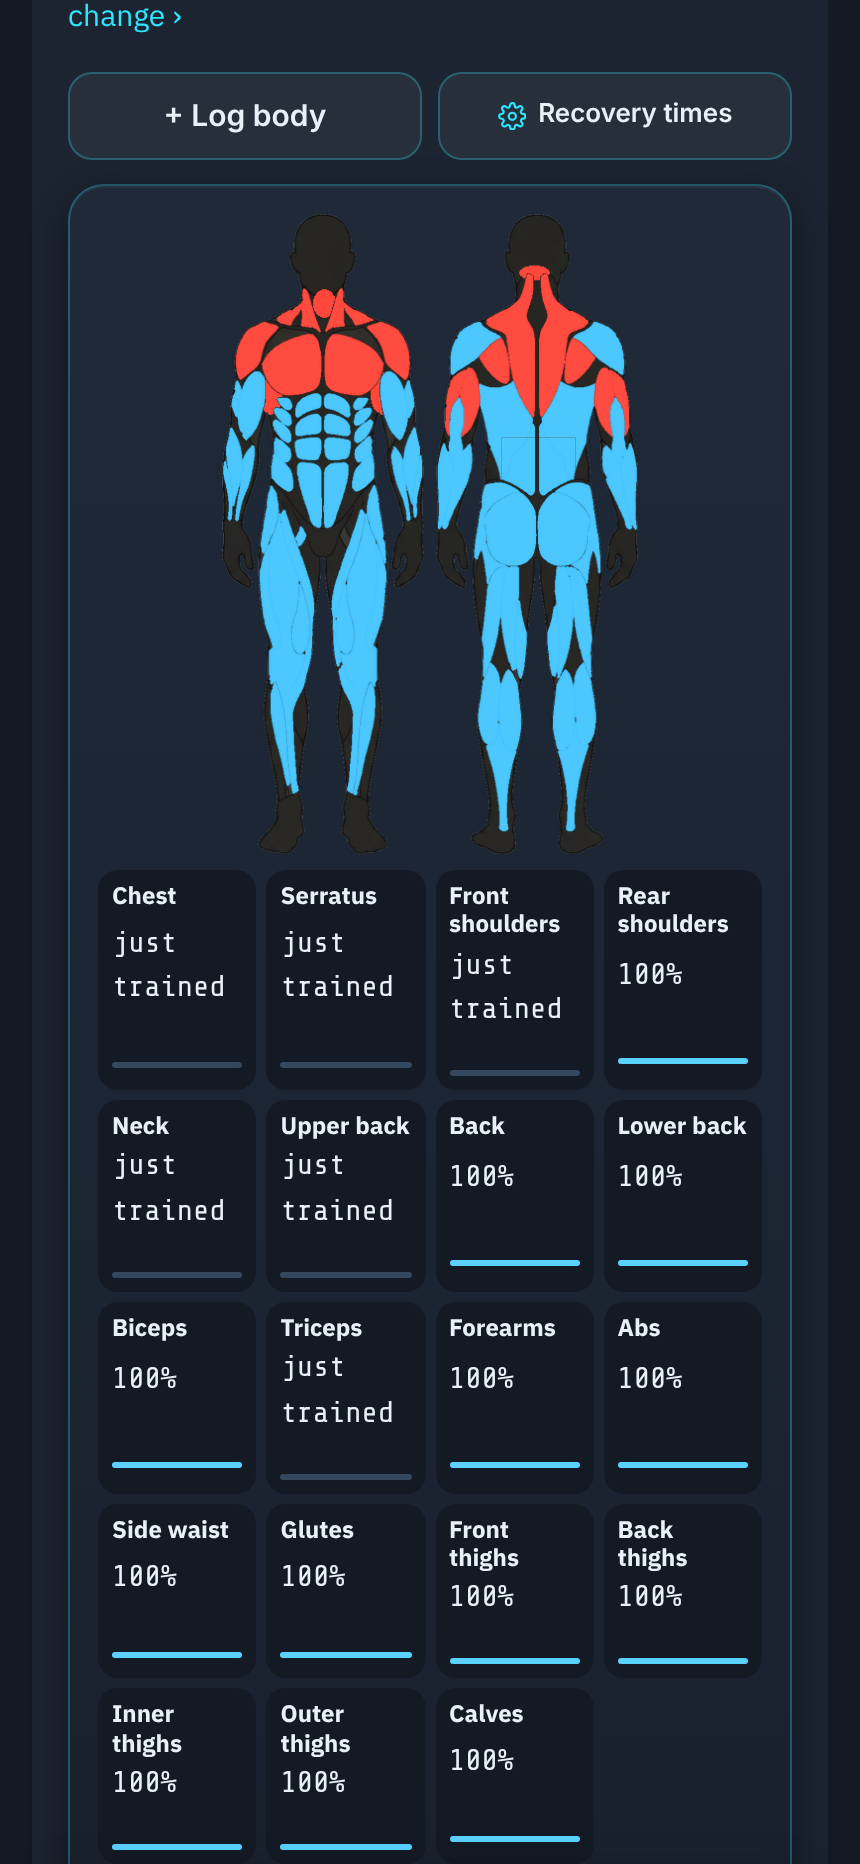
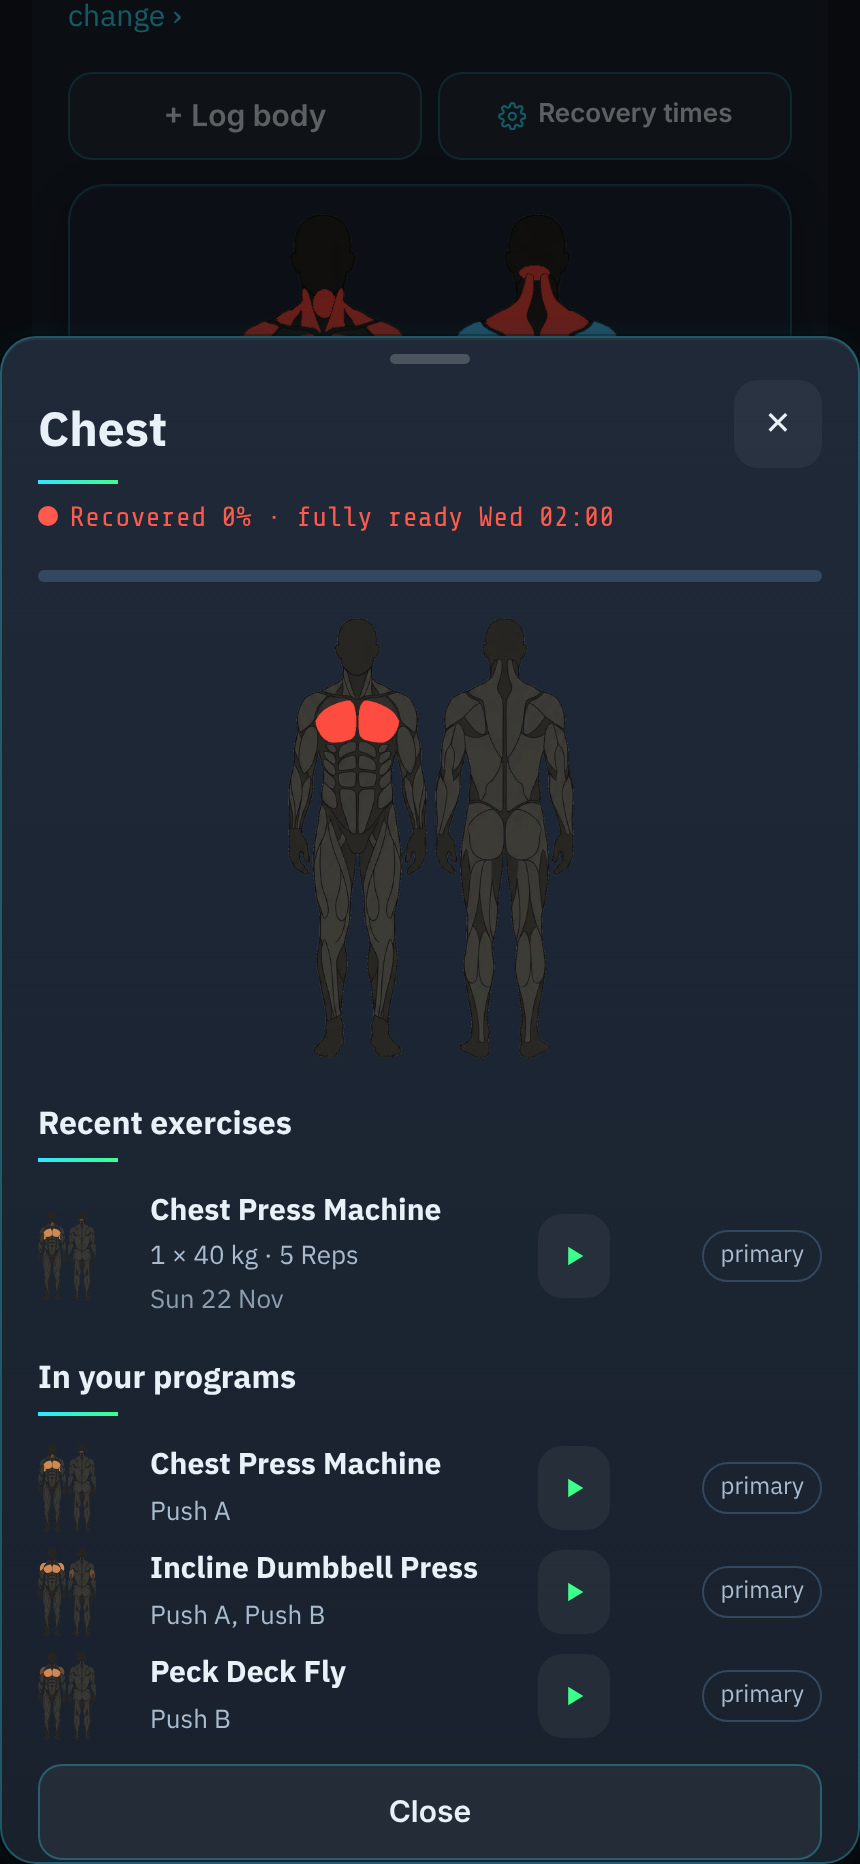
Recovery: muscle tile tap opens details on Today (#197)
* docs: Today critique snapshot + redesign intent

Claude-Session: https://claude.ai/code/session_01TA1QFnqgBxBRFsiXemJ9Lg

* chore: ignore impeccable live-server state

Claude-Session: https://claude.ai/code/session_01TA1QFnqgBxBRFsiXemJ9Lg

* Today: plan first, one start button, inline meal tick, folded recovery

Claude-Session: https://claude.ai/code/session_01TA1QFnqgBxBRFsiXemJ9Lg

* docs: merge PR automatically once npm test passes

Claude-Session: https://claude.ai/code/session_01TA1QFnqgBxBRFsiXemJ9Lg

* docs: no OK wait between steps

Claude-Session: https://claude.ai/code/session_01TA1QFnqgBxBRFsiXemJ9Lg

* Today: recovery-aware start, undo on meal tick, progress bars, direct start

Claude-Session: https://claude.ai/code/session_01TA1QFnqgBxBRFsiXemJ9Lg

* Today: rested program leads, rest-day exit, inline meal cancel, over-target bar

Claude-Session: https://claude.ai/code/session_01TA1QFnqgBxBRFsiXemJ9Lg

* Today: body weight + 7-day change + weigh-in in the body card

Claude-Session: https://claude.ai/code/session_01TA1QFnqgBxBRFsiXemJ9Lg

* Today: body card shows weight, muscle mass and body fat

Claude-Session: https://claude.ai/code/session_01TA1QFnqgBxBRFsiXemJ9Lg

* Today: weigh-in opens the full body-log sheet

Claude-Session: https://claude.ai/code/session_01TA1QFnqgBxBRFsiXemJ9Lg

* Today: headline matches suggestion, inline cancel, blank weigh-in, fits above tab bar

Claude-Session: https://claude.ai/code/session_01TA1QFnqgBxBRFsiXemJ9Lg
[…]

diff --git a/public/index.html b/public/index.html
@@ -8,11 +8,11 @@
 <meta name="apple-mobile-web-app-status-bar-style" content="black-translucent">
 <meta name="apple-mobile-web-app-title" content="WeightGram">
 <link rel="manifest" href="/manifest.webmanifest">
-<link rel="apple-touch-icon" href="/apple-touch-icon.png?v=138621">
+<link rel="apple-touch-icon" href="/apple-touch-icon.png?v=138622">
 <title>WeightGram</title>
 <link rel="stylesheet" href="https://fonts.googleapis.com/css2?family=IBM+Plex+Sans+Thai:wght@400;500;700&family=IBM+Plex+Mono:wght@400;500&family=Share+Tech+Mono&display=swap">
 <style>:root{padding-top:env(safe-area-inset-top,0px);padding-bottom:env(safe-area-inset-bottom,0px)}*{-webkit-tap-highlight-color:transparent}body{margin:0;font-size:var(--t-sm);font-family:system-ui,sans-serif}img{max-width:100%}[hidden]{display:none!important}</style>
-<link rel="stylesheet" href="/css/app.css?v=138621">
+<link rel="stylesheet" href="/css/app.css?v=138622">
 </head><body>
 
 <div class="wrap">
@@ -280,37 +280,37 @@
   </div>
 </div>
 
-<script src="/js/core.js?v=138621"></script>
-<script src="/js/food.js?v=138621"></script>
-<script src="/js/locations.js?v=138621"></script>
-<script src="/js/programs.js?v=138621"></script>
-<script src="/js/run.js?v=138621"></script>
-<script src="/js/workout.js?v=138621"></script>
-<script src="/js/exercise-edit.js?v=138621"></script>
-<script src="/js/edit-tx.js?v=138621"></script>
-<script src="/js/exercise-library.js?v=138621"></script>
-<script src="/js/program-manager.js?v=138621"></script>
-<script src="/js/hero.js?v=138621"></script>
-<script src="/js/rest-timer.js?v=138621"></script>
-<script src="/js/auth.js?v=138621"></script>
-<script src="/js/push.js?v=138621"></script>
-<script src="/js/data-io.js?v=138621"></script>
-<script src="/js/sync.js?v=138621"></script>
-<script src="/js/muscle-map.js?v=138621"></script>
-<script src="/js/progress.js?v=138621"></script>
-<script src="/js/history-chart.js?v=138621"></script>
-<script src="/js/stats-extra.js?v=138621"></script>
-<script src="/js/meal-plan.js?v=138621"></script>
-<script src="/js/undo.js?v=138621"></script>
-<script src="/js/home.js?v=138621"></script>
-<script src="/js/share.js?v=138621"></script>
-<script src="/js/explore.js?v=138621"></script>
-<script src="/js/onboarding.js?v=138621"></script>
-<script src="/js/account.js?v=138621"></script>
-<script src="/js/share-card.js?v=138621"></script>
-<script src="/js/number-pad.js?v=138621"></script>
-<script src="/js/refresh.js?v=138621"></script>
-<script src="/js/app.js?v=138621"></script>
+<script src="/js/core.js?v=138622"></script>
+<script src="/js/food.js?v=138622"></script>
+<script src="/js/locations.js?v=138622"></script>
+<script src="/js/programs.js?v=138622"></script>
+<script src="/js/run.js?v=138622"></script>
+<script src="/js/workout.js?v=138622"></script>
+<script src="/js/exercise-edit.js?v=138622"></script>
+<script src="/js/edit-tx.js?v=138622"></script>
+<script src="/js/exercise-library.js?v=138622"></script>
+<script src="/js/program-manager.js?v=138622"></script>
+<script src="/js/hero.js?v=138622"></script>
+<script src="/js/rest-timer.js?v=138622"></script>
+<script src="/js/auth.js?v=138622"></script>
+<script src="/js/push.js?v=138622"></script>
+<script src="/js/data-io.js?v=138622"></script>
+<script src="/js/sync.js?v=138622"></script>
+<script src="/js/muscle-map.js?v=138622"></script>
+<script src="/js/progress.js?v=138622"></script>
+<script src="/js/history-chart.js?v=138622"></script>
+<script src="/js/stats-extra.js?v=138622"></script>
+<script src="/js/meal-plan.js?v=138622"></script>
+<script src="/js/undo.js?v=138622"></script>
+<script src="/js/home.js?v=138622"></script>
+<script src="/js/share.js?v=138622"></script>
+<script src="/js/explore.js?v=138622"></script>
+<script src="/js/onboarding.js?v=138622"></script>
+<script src="/js/account.js?v=138622"></script>
+<script src="/js/share-card.js?v=138622"></script>
+<script src="/js/number-pad.js?v=138622"></script>
+<script src="/js/refresh.js?v=138622"></script>
+<script src="/js/app.js?v=138622"></script>
 
 <div id="rec-wrap" class="stack" style="gap:10px" hidden><div class="rcf-head"><div class="sec-t" data-i="การฟื้นตัวของกล้ามเนื้อ">การฟื้นตัวของกล้ามเนื้อ</div><button class="btn sm" id="rec-cfg">⚙ <span data-i="ตั้งเวลาฟื้นตัว">ตั้งเวลาฟื้นตัว</span></button></div><div class="card" id="rec-body"></div></div>
 </body></html>

diff --git a/public/js/stats-extra.js b/public/js/stats-extra.js
@@ -185,7 +185,8 @@ renderBody=function(){const box=document.getElementById("body-card");if(!box)ret
   box.querySelector("#bw-add").addEventListener("click",()=>openLog(TODAY));
   box.querySelectorAll("[data-bed]").forEach(b=>b.addEventListener("click",()=>openLog(b.dataset.bed)))};
 
-document.getElementById("rec-card").addEventListener("click",ev=>{const b=ev.target.closest(".rec-t,.rc-chip");if(b)openMuscle(b.dataset.m)});
+/* tiles live in Today now too, outside #rec-card — delegate on the document */
+document.addEventListener("click",ev=>{const b=ev.target.closest&&ev.target.closest(".rec-t[data-m],.rc-chip[data-m]");if(b)openMuscle(b.dataset.m)});
 /* ---------- muscle sheet: big figure, status, recent exercises that hit it, program exercises that train it ---------- */
 Object.assign(EN,{"ท่าที่เล่นล่าสุด":"Recent exercises","ท่าที่ช่วยมัดนี้ในโปรแกรม":"In your programs","หลัก":"primary","รอง":"secondary","ยังไม่มีท่าในโปรแกรมที่โดนมัดนี้":"No program exercise works this muscle yet","เพิ่มท่าได้ที่ จัดการโปรแกรม":"Add one in Manage programs"});
 function openMuscle(m){const lt=lastTrained(),d=lt[m]?Math.round((ds2d(TODAY)-ds2d(lt[m]))/864e5):null,ro=recPct()[m],st=recState(ro);

diff --git a/docs/work/2026-11-21-train-calm/plan-rec-tap.md b/docs/work/2026-11-21-train-calm/plan-rec-tap.md
@@ -1,0 +1,3 @@
+# Recovery tile tap
+- [x] tiles shown in Today sit outside #rec-card → listener missed; delegate on document
+- [x] checked tap Chest opens detail sheet, npm test
